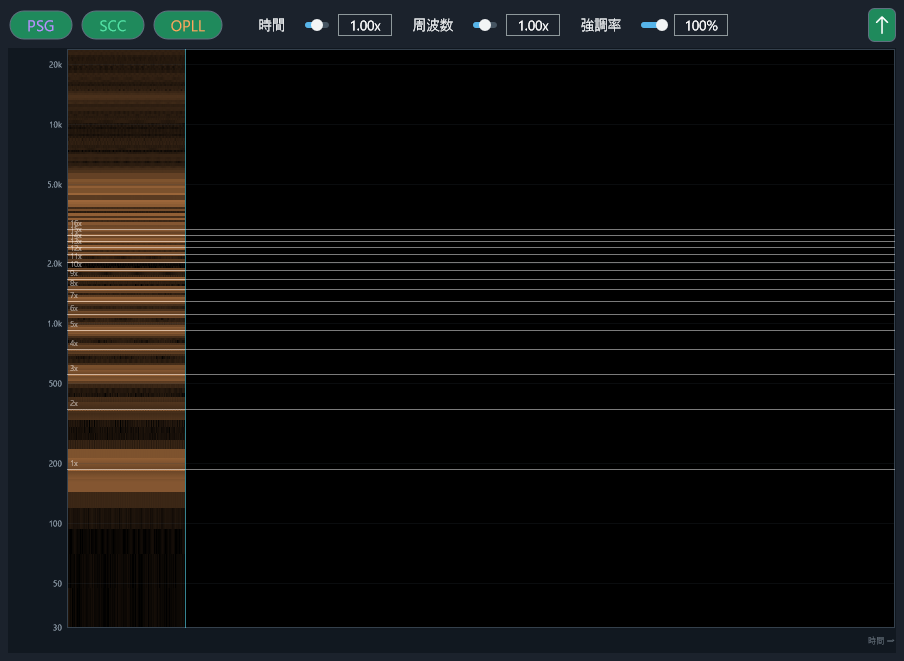
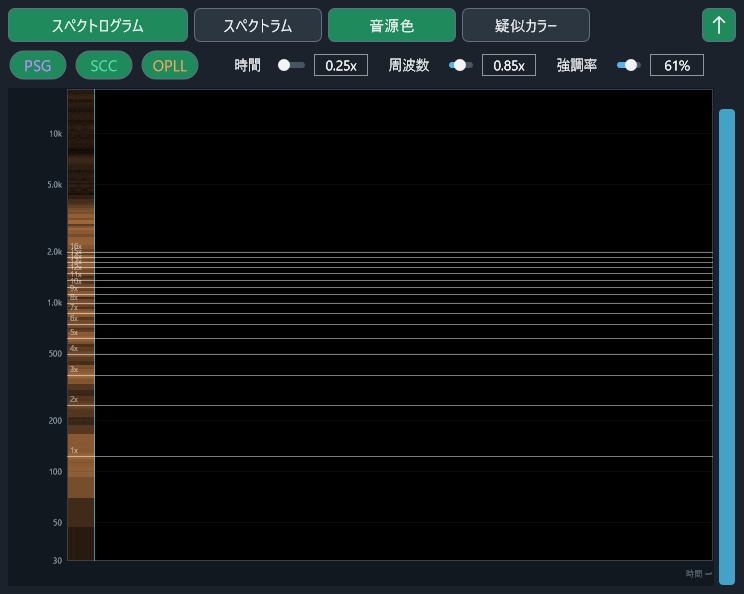
Prepare the 0.285 Alpha release notes, screenshots, and packaging.
Document user-facing changes since 0.274 and capture the spectrum, tag, and import screens for README.

Changed region(s): [[0.0, 0.0, 1.0, 1.0]]

diff --git a/src/app/juce/main.cpp b/src/app/juce/main.cpp
@@ -6847,6 +6847,13 @@ public:
         tabs_.setTabBarDepth(UiLayout::fieldH);
     }
 
+    void setCaptureTab(int index) {
+        tabs_.setCurrentTabIndex(
+            juce::jlimit(0, 2, index),
+            juce::dontSendNotification);
+        resized();
+    }
+
     bool keyPressed(const juce::KeyPress& key) override {
         // Scale shortcuts are editor-only (Composite / SCC / OPLL).
         if (performance_keyboard_.shouldConsumeKeyPress(key)) {
@@ -18698,7 +18705,11 @@ private:
                     2, snapshot_file_)
                 : SnapshotResult::MissingContent;
         } else if (snapshot_target_ == "library") {
-            result = captureLibraryManagerSnapshot(snapshot_file_);
+            result = captureLibraryManagerSnapshot(snapshot_file_, 0);
+        } else if (snapshot_target_ == "library-tags") {
+            result = captureLibraryManagerSnapshot(snapshot_file_, 1);
+        } else if (snapshot_target_ == "library-import") {
+            result = captureLibraryManagerSnapshot(snapshot_file_, 2);
         } else if (snapshot_target_ == "spectrogram" || snapshot_target_ == "spectrum") {
             auto* const content = spectrogram_window_ != nullptr
                 ? spectrogram_window_->snapshotContent()
@@ -18715,7 +18726,8 @@ private:
     }
 
     [[nodiscard]] SnapshotResult captureLibraryManagerSnapshot(
-        const juce::File& output_file) {
+        const juce::File& output_file,
+        int tab_index) {
         ScopedLibraryIpcLock lock(
             tag_management_lock_);
         std::string error;
@@ -18739,6 +18751,7 @@ private:
             [](LibraryManagerKind, std::uint64_t, std::uint8_t) {},
             [](LibraryManagerKind, std::uint8_t) {},
             [] {});
+        content.setCaptureTab(tab_index);
         return writeComponentPngSnapshot(content, output_file);
     }
 

diff --git a/CHANGELOG.md b/CHANGELOG.md
@@ -17,21 +17,40 @@
 - **Removed**: 削除した機能
 - **Notes**: 互換性・Alpha制限など、利用者への注意
 
-## [0.276] - Unreleased
+## [0.285] - 2026-09-13
+
+前回のバイナリ公開（0.273／0.274）以降の利用者向け差分を、この版にまとめる。
 
 ### Added
 
-- スペアナの共有窓にスペクトラム表示を追加。チャンネル別の色線と合成の白線、最大5秒の履歴、実ピークの周波数・音名・レベル・基準比を表示
-- 両表示で使える周波数基準の固定、合成線の比較保持、表示停止と過去の履歴選択を追加。音声は止めずに比較・確認可能
-
-### Fixed
-
-- スペクトログラム表示中の不要な個別解析を停止し、取得欠落時の画像全再構成を列単位更新へ変更。スペクトラムの描画キャッシュも改善
-- 単一チャンネルの色線が白い合成線に隠れる問題を修正し、発音中のチャンネル名を表示
+- ライブラリ管理へ`インポート`タブを追加。非圧縮MGS、MML／MUS定義、MuSICA VCD、SCC-Musixx SNG、VGM／VGZから完成したOPLL／SCC／総合音色を候補化し、既存ライブラリへ登録できる。圧縮MGSは拒否し、`.mgstc`取込は置換しない
+- インポートは複数ファイルを一度に開け、ファイル見出しの下へ候補を並べる。チェックした未登録を一括登録でき、リストはアプリ終了まで保持する
+- 候補の名前欄へ`接頭辞 - 識別子`を既定入力する。曲名が無ければファイル名、音色番号・音色名が無ければ`00`連番。登録前に編集できる
+- ライブラリ管理をモデルレスの独立窓にし、保存・削除・改名・★・タグ・インポート登録を開いている総合／SCC／OPLLの一覧へ即時反映する
+- 共有スペアナ窓にスペクトラム表示を追加。チャンネル別の色線と合成の白線、最大5秒の履歴、実ピークの周波数・音名・レベル・基準比、周波数基準の固定、合成線の比較保持、表示停止と過去の履歴選択に対応
+- スペクトログラムに従来の`音源色`と、ON音源の合算強度だけを単調カラーマップで示す`疑似カラー`を追加
+- `h`ソフトウェアLFOを設定窓と音程レーンへ、約60Hzの水平保持→垂直ジャンプで表示する
+- 共有スペアナ窓がアクティブな間、直前の総合／SCC／OPLLへ既存のPCキー／MIDI入力を委譲する
 
 ### Changed
 
-- 表示モード切替で双方の取得済み履歴を維持。時間ズーム変更時も共通FFTとスペクトラム履歴を継続
+- インポートリストのチェックは既定OFF。空名前には「音色名を設定」を示し、縦スクロール時は登録ボタンとスクロールバーが重ならない
+- MGS／MMLの総合取り込みは未使用の`@e`を入れない。OPLLリズムch（7～9）はYM2413レジスタ0x0E bit5がONの時点だけ除外する。使用時点に音色が無ければその音源の初期設定を使う
+- トラック`@\`の試聴をMGSDRV互換へ合わせる。PSG／SCCは符号付き1/8周期換算、OPLLは現在音から次半音までのF-number補間
+- スペクトラム履歴は区間内の平均から確定した線だけを残し、後続フレームで過去線が変形しない。上側ほど明るく、奥ほど減衰し、手前に隠れた奥線は薄く残す
+- 表示モード切替でも双方の取得済み履歴を維持する。共有窓内の切替名は`スペクトラム`
+- ピンON時はスペアナが他のMGSTC窓の背面へ一瞬回らない。常時最前面にはせず、モーダル中はピン前面を掛けない
+- インポートの`編集`はプレビューを止めてから載せ、初回切替のクリック音を避ける。1秒プレビュー中はエディタを前面化しない。PCキー／MIDIは該当エディタの Poly／Mono に従う
+
+### Fixed
+
+- スペクトログラム表示中の不要な個別解析を止め、取得欠落時は画像全体ではなく欠落列だけを更新する
+- 単一チャンネルの色線が白い合成線に隠れる問題を修正し、発音中のチャンネル名を表示する
+
+### Notes
+
+- 現状は Alpha。設定 INI・音色ライブラリ・複合保存の版間アップグレード互換は保証しない
+- 曲全体の`.MUS`出力、一部の命令直列化、実機受け入れの一部は未完了
 
 ## [0.274] - 2026-09-07
 

diff --git a/docs/RELEASE_NOTES_v0.285.md b/docs/RELEASE_NOTES_v0.285.md
@@ -1,0 +1,25 @@
+# GitHub Release notes 下書き — v0.285
+
+公開アップロード時に Release 本文へ貼る用。
+
+```
+Alpha update (0.285).
+
+前回のバイナリ公開（0.273／0.274）以降の差分です。
+
+## Added
+- ライブラリ管理のインポート（非圧縮MGS、MML／MUS、VCD、SNG、VGM／VGZ）。圧縮MGSは拒否
+- 共有スペアナのスペクトラム表示（履歴・ピーク・比較保持・表示停止）
+- スペクトログラムの音源色／疑似カラー
+- `h` LFO波形表示
+
+## Changed
+- トラック`@\`の試聴をMGSDRV互換へ
+- ピンON時にスペアナが背面へ一瞬回らない
+
+## Notes
+- 現状は Alpha。設定・ライブラリ・保存形式の版間互換は保証しません
+- `.MUS`完全出力などは未完了です
+
+詳細は CHANGELOG.md を参照してください。
+```
